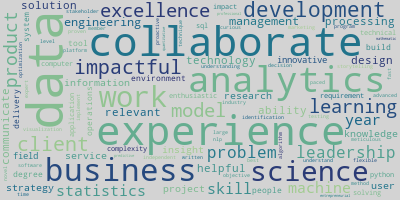
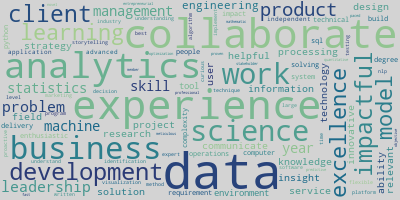
routine debugging

diff --git a/nlp_main.py b/nlp_main.py
@@ -3120,15 +3120,11 @@ def visualize_n_grams(n_grams, ds_cred_terms, terms_for_nlp):
         # THEN INTELLIGENTLY FILTER THEM DOWN, PERHAPS IF AT LEAST ONE OF THE TERMS IS IN THE CREDENTIALS LIST
         n_gram_count = 2
         n_gram_range_start, n_gram_range_stop  = 0, 100
-        bi_grams = nlp_count_n_grams(terms_for_nlp, n_gram_count, n_gram_range_start, n_gram_range_stop)
+        n_grams = nlp_count_n_grams(terms_for_nlp, n_gram_count, n_gram_range_start, n_gram_range_stop)
         # next line needs to clean the bigrams....maybe I need to go back and just clean n_grams at the beginning
-        
     
-
-        
-    
-    visualize_all(n_grams)
-    visualize_credentials(ds_cred_terms, terms_for_nlp)
+    visualize_all(n_grams, ds_cred_terms, terms_for_nlp)
+    visualize_credentials(n_grams, ds_cred_terms, terms_for_nlp)
 
 def visualize_word_clouds(terms_for_nlp, series_of_interest):
     '''
